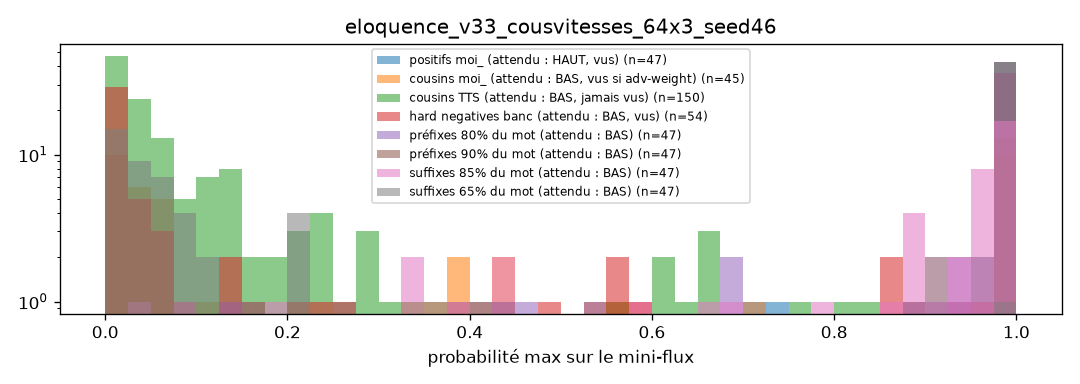
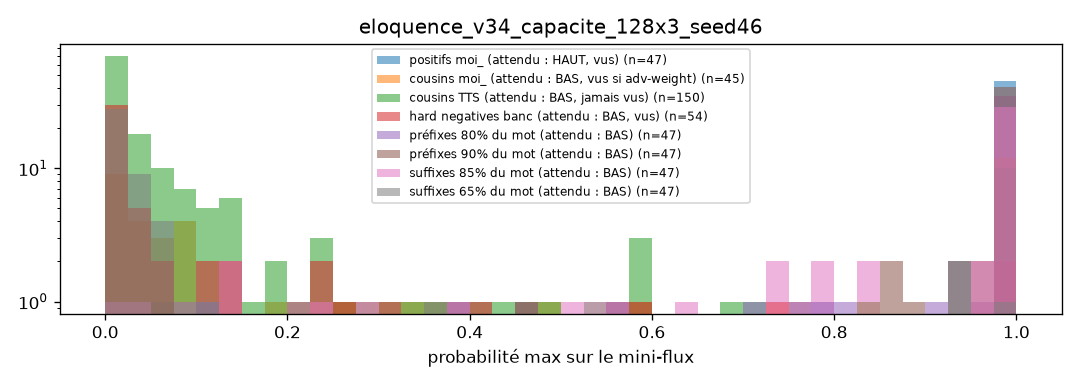
v34 échoue — et les cousins récalcitrants sont 9 clips d'UNE session
La capacité (128x3) n'était pas le verrou. Découverte décisive : sur v28,
v33 et v34, les cousins qui déclenchent @0.9 sont les 9 MÊMES clips
(session 6tq4j6gd) — un problème de données, pas de modèle ; copiés dans
artifacts/ecoute_cousins/ pour l'écoute du matin. S5 (loterie seeds 43-45,
élection lexicographique déclarée) lancée.

diff --git a/docs/JOURNAL.md b/docs/JOURNAL.md
@@ -60,6 +60,24 @@ STRICTE (aucun autre changement). Critère : la grille complète, avec
 l'espoir déclaré que cousins ET suffixes profitent de la capacité ; échec si
 FA/h > 6 @0.9 ou vitesses < v28 − 5 pts.
 
+**Verdict v34 : échec** (FA/h 9.1, ×1.3 effondré à 32 %, cousins 20 %) — la
+capacité n'était pas le verrou.
+
+**LA découverte de la piste cousins : ce sont toujours les 9 MÊMES clips.**
+Sur v28, v33 et v34, les déclencheurs cousins @0.9 sont identiques — 9 clips
+d'une seule session d'ingestion (`6tq4j6gd`, « negatif_close »). Le mur des
+20 % n'est pas un problème de modèle : c'est une question de DONNÉES. Copiés
+dans `artifacts/ecoute_cousins/` pour l'écoute du matin : s'ils sont ambigus
+ou mal étiquetés, la clause tombe (sans eux, v28 ≈ 3 % de cousins) ; s'ils
+sont légitimes, le mur est réel et il faudra d'autres enregistrements.
+Aucune ré-étiquette autonome — la vérité terrain se juge à l'oreille.
+
+**S5 (runs 7-9/12) — la loterie protocolée** : recette v28 re-tirée en seeds
+43/44/45, batterie complète chacune. Élection DÉCLARÉE avant : priorité
+lexicographique (1) nombre de clauses vertes de la grille, (2) FA/h @0.9
+minimal, (3) rappel banc maximal. Le gagnant (seed 46 incluse) devient le
+candidat final de la nuit.
+
 ## 2026-08-15 — La nuit du 15 août, racontée simplement
 
 **1. Trois essais de modèle, trois échecs — et trois vraies leçons.**
